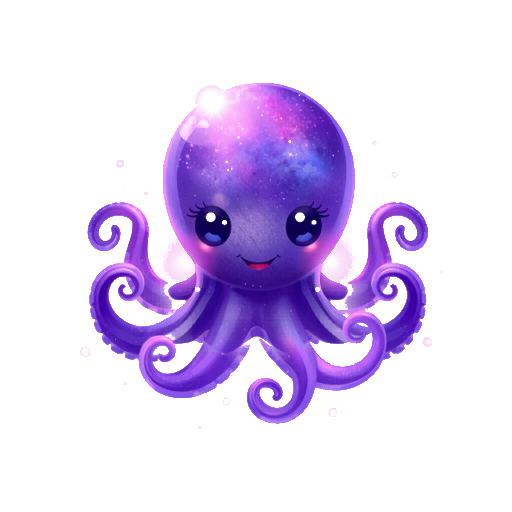
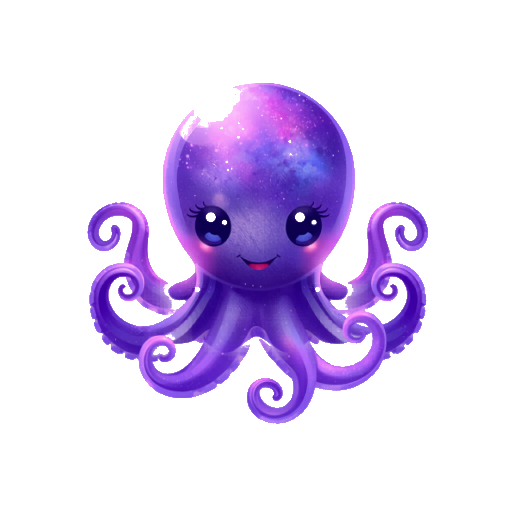
fix: clean feature grid alignment + mix-blend-mode on baby Otto
- Feature grid: fixed-width emoji column (20px), flexbox alignment, consistent gaps
- mix-blend-mode:lighten on baby Otto images hides white fringe on dark backgrounds
- Applied to titlebar logo, hero splash, and homepage stinger
- Cleaned up temp files

diff --git a/token-dock/src/index.html b/token-dock/src/index.html
@@ -481,7 +481,7 @@
     .hero-splash{text-align:center;padding:0.5em 0.5em 0.4em;position:relative;overflow:hidden}
     .hero-splash::before{content:'';position:absolute;inset:0;background:radial-gradient(ellipse at 50% 80%,var(--ad),transparent 70%);pointer-events:none}
     .hero-logo{width:64px;height:64px;margin:0 auto 0.2em;position:relative;cursor:pointer;-webkit-app-region:no-drag}
-    .hero-logo img{width:100%;height:100%;object-fit:contain;filter:drop-shadow(0 0 8px rgba(147,51,234,0.5)) drop-shadow(0 0 20px rgba(147,51,234,0.25)) drop-shadow(0 2px 4px rgba(0,0,0,0.3));transition:filter 300ms ease}
+    .hero-logo img{width:100%;height:100%;object-fit:contain;filter:drop-shadow(0 0 8px rgba(147,51,234,0.5)) drop-shadow(0 0 20px rgba(147,51,234,0.25)) drop-shadow(0 2px 4px rgba(0,0,0,0.3));transition:filter 300ms ease;mix-blend-mode:lighten}
     /* Star sparkle overlay */
     .hero-logo::before{content:'';position:absolute;inset:-6px;border-radius:50%;background:radial-gradient(circle at 30% 25%,rgba(255,255,255,0.3) 0%,transparent 3%),radial-gradient(circle at 70% 20%,rgba(255,255,255,0.2) 0%,transparent 2%),radial-gradient(circle at 50% 70%,rgba(255,255,255,0.15) 0%,transparent 2.5%),radial-gradient(circle at 80% 60%,rgba(255,255,255,0.2) 0%,transparent 2%),radial-gradient(circle at 20% 55%,rgba(255,255,255,0.15) 0%,transparent 2%);animation:sparkleShift 3s ease-in-out infinite;pointer-events:none}
     @keyframes sparkleShift{0%,100%{opacity:0.6;rotate:0deg}50%{opacity:1;rotate:3deg}}
@@ -1119,7 +1119,7 @@
           <div class="theme-rain" id="theme-rain"></div>
           <div class="titlebar">
             <div class="tl">
-              <div class="tlogo" data-action="hideToTray" title="Hide to tray"><img src="baby-otto.png" alt="Octopus AI" style="width:100%;height:100%;object-fit:contain"/></div>
+              <div class="tlogo" data-action="hideToTray" title="Hide to tray"><img src="baby-otto.png" alt="Octopus AI" style="width:100%;height:100%;object-fit:contain;mix-blend-mode:lighten"/></div>
               <span class="ttitle">Token Dock</span>
               <div class="tp" id="tp"></div>
             </div>
